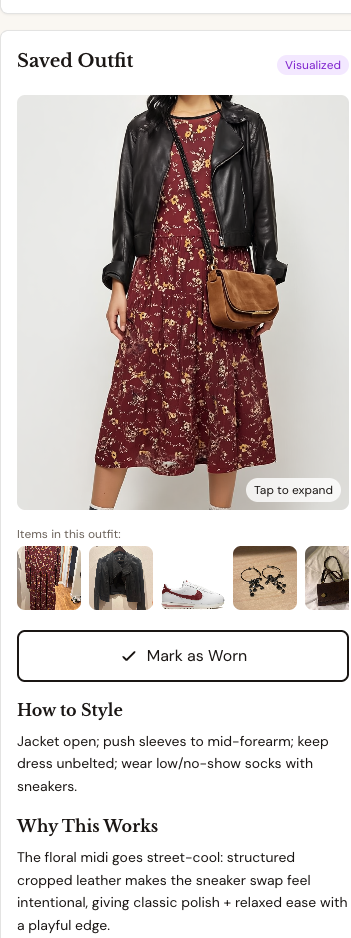
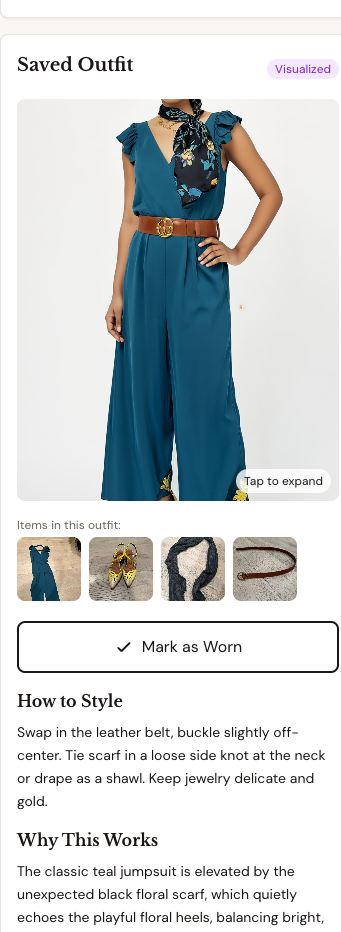
Replace hero images with diverse users (Peichin, Dana, Anneka) at consistent 420px viewport
All 3 hero cards now captured at identical viewport width for visual alignment.

diff --git a/frontend/components/ShowcaseLanding.tsx b/frontend/components/ShowcaseLanding.tsx
@@ -43,8 +43,8 @@ export function ShowcaseLanding() {
           <div className="flex gap-3 w-max md:grid md:grid-cols-3 md:gap-4 md:w-full">
             {[
               { src: '/showcase/hero-outfit-1.png', alt: 'Blazer and bow tee outfit with Runway visualization' },
-              { src: '/showcase/hero-outfit-2.png', alt: 'Crochet cardigan and sage skirt outfit with Runway visualization' },
-              { src: '/showcase/hero-outfit-3.png', alt: 'Burgundy dress and leather jacket outfit with Runway visualization' },
+              { src: '/showcase/hero-outfit-2.png', alt: 'Grey sweater and denim skirt outfit with Runway visualization' },
+              { src: '/showcase/hero-outfit-3.png', alt: 'Teal jumpsuit and floral heels outfit with Runway visualization' },
             ].map((item, i) => (
               <div key={i} className="shrink-0 w-[260px] md:w-auto">
                 <div className="bg-white rounded-xl shadow-lg border border-[rgba(26,22,20,0.08)] overflow-hidden">
